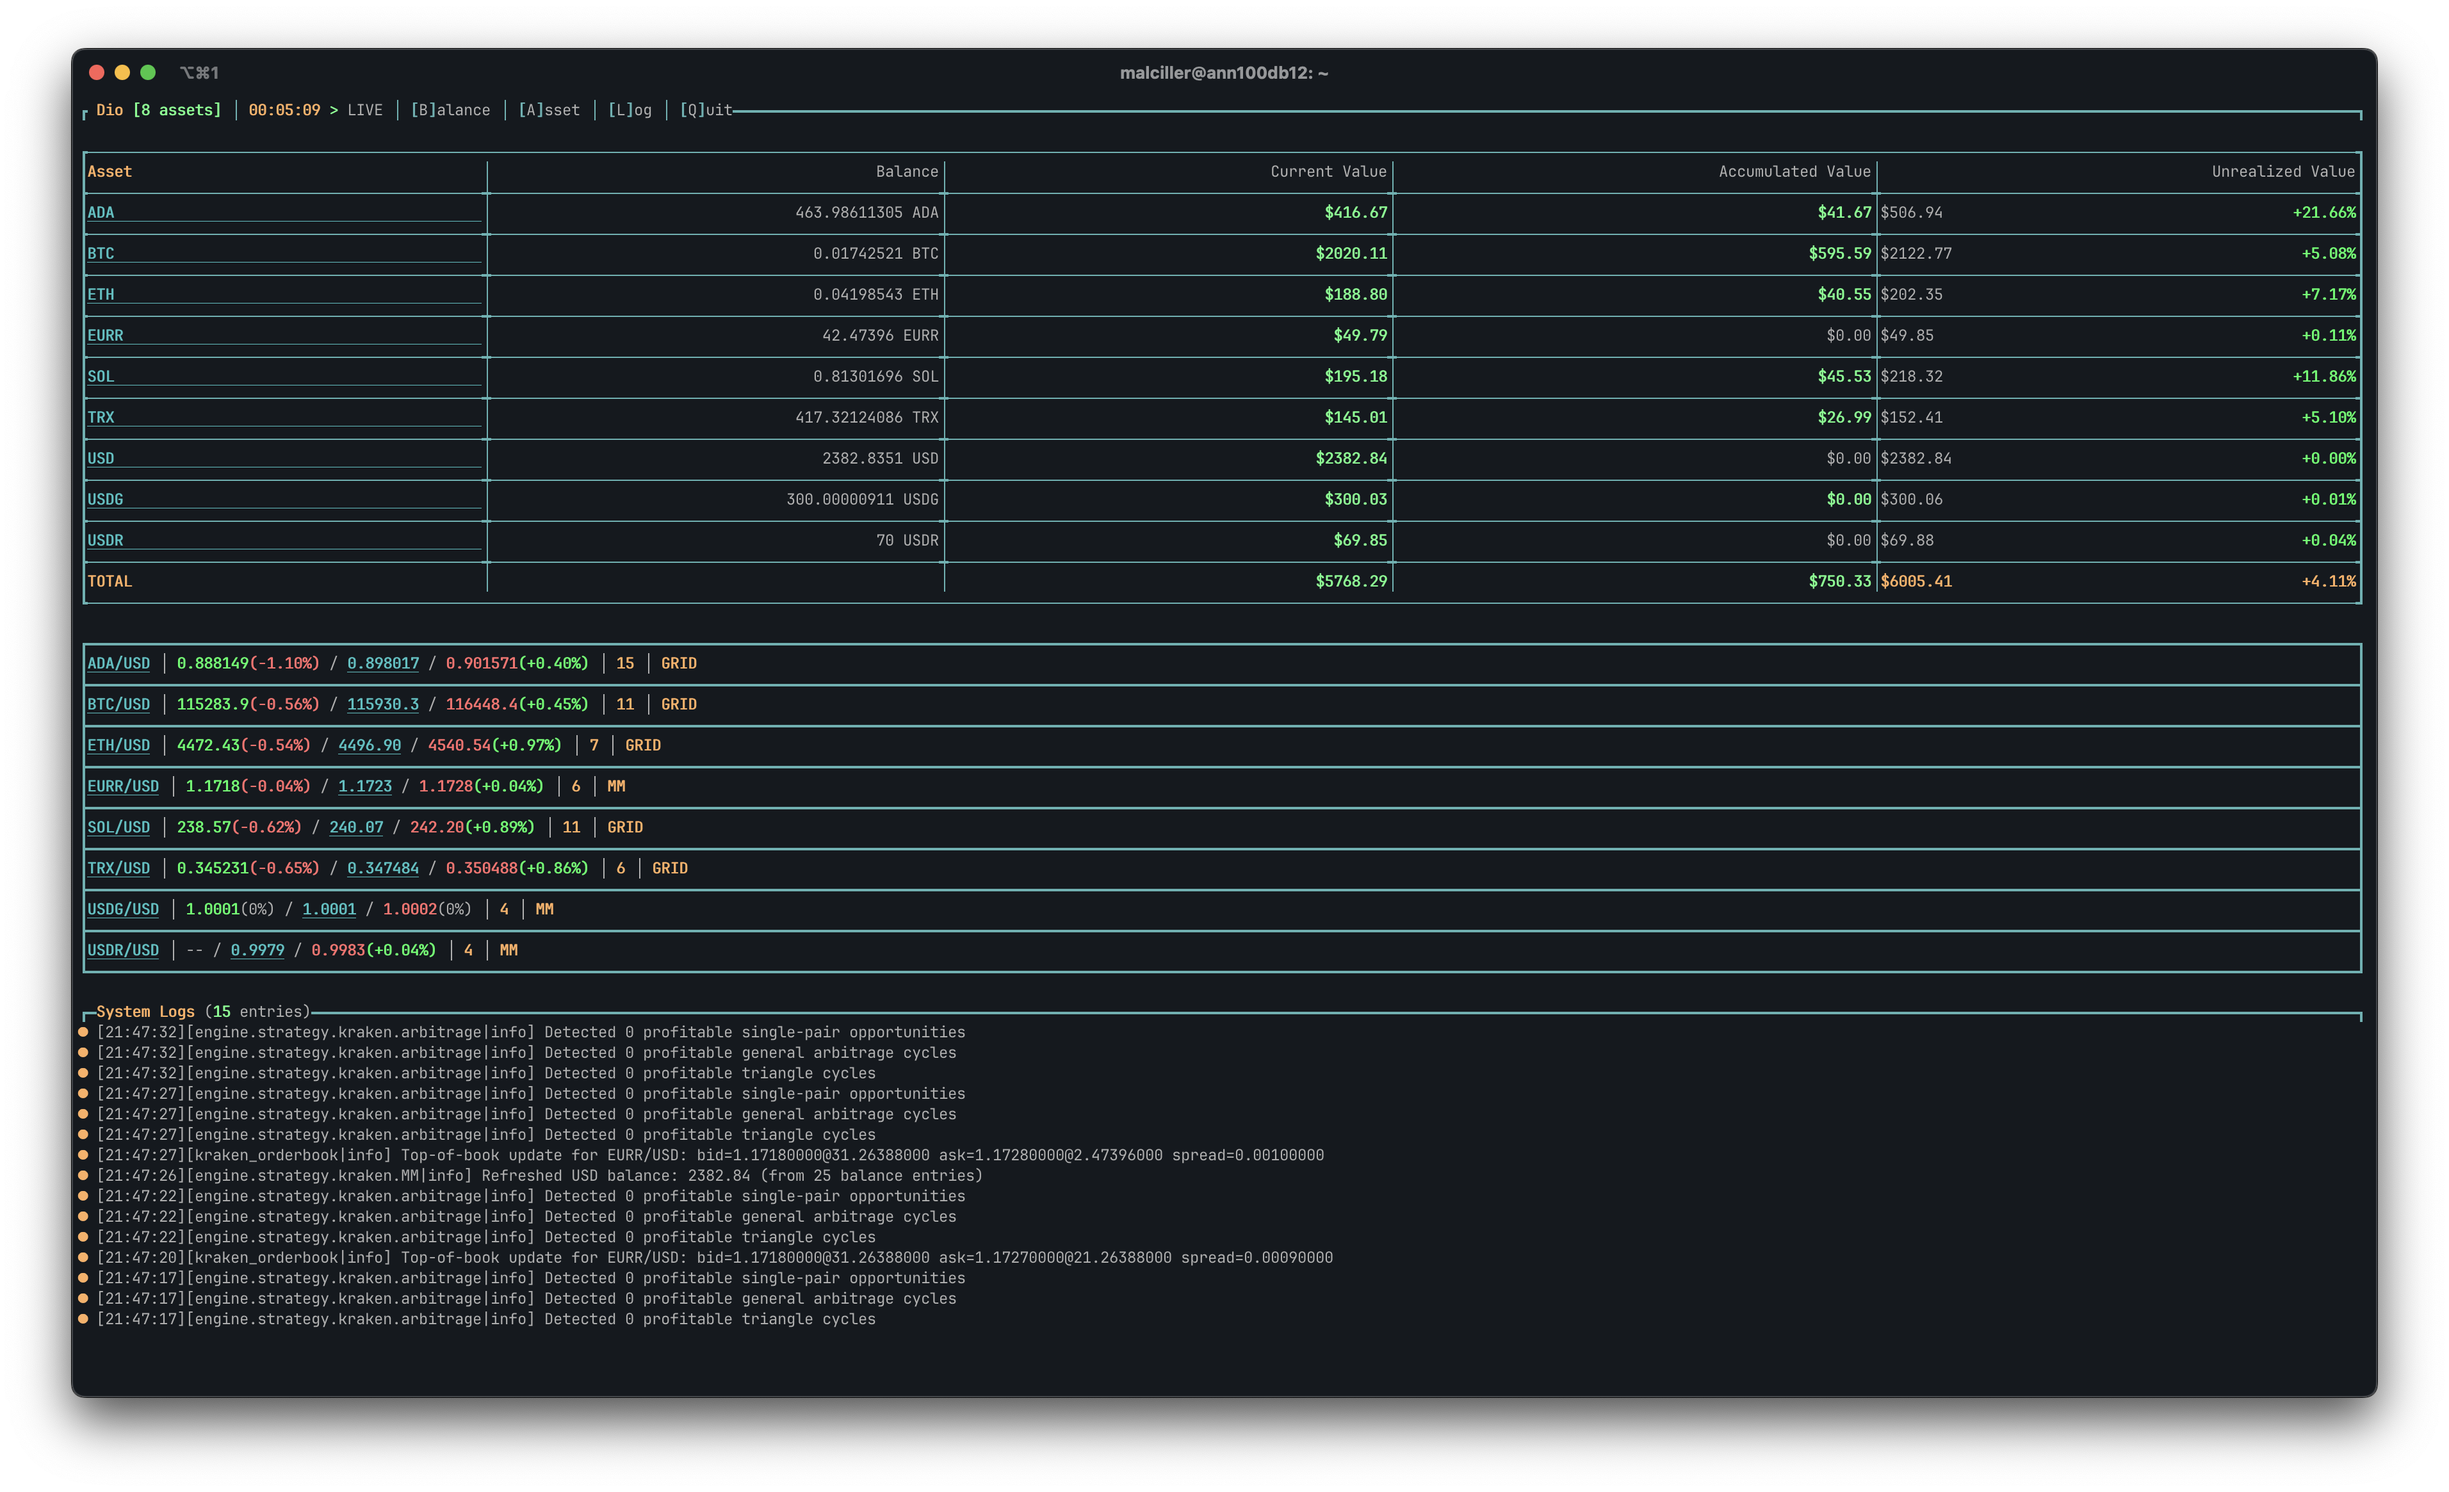
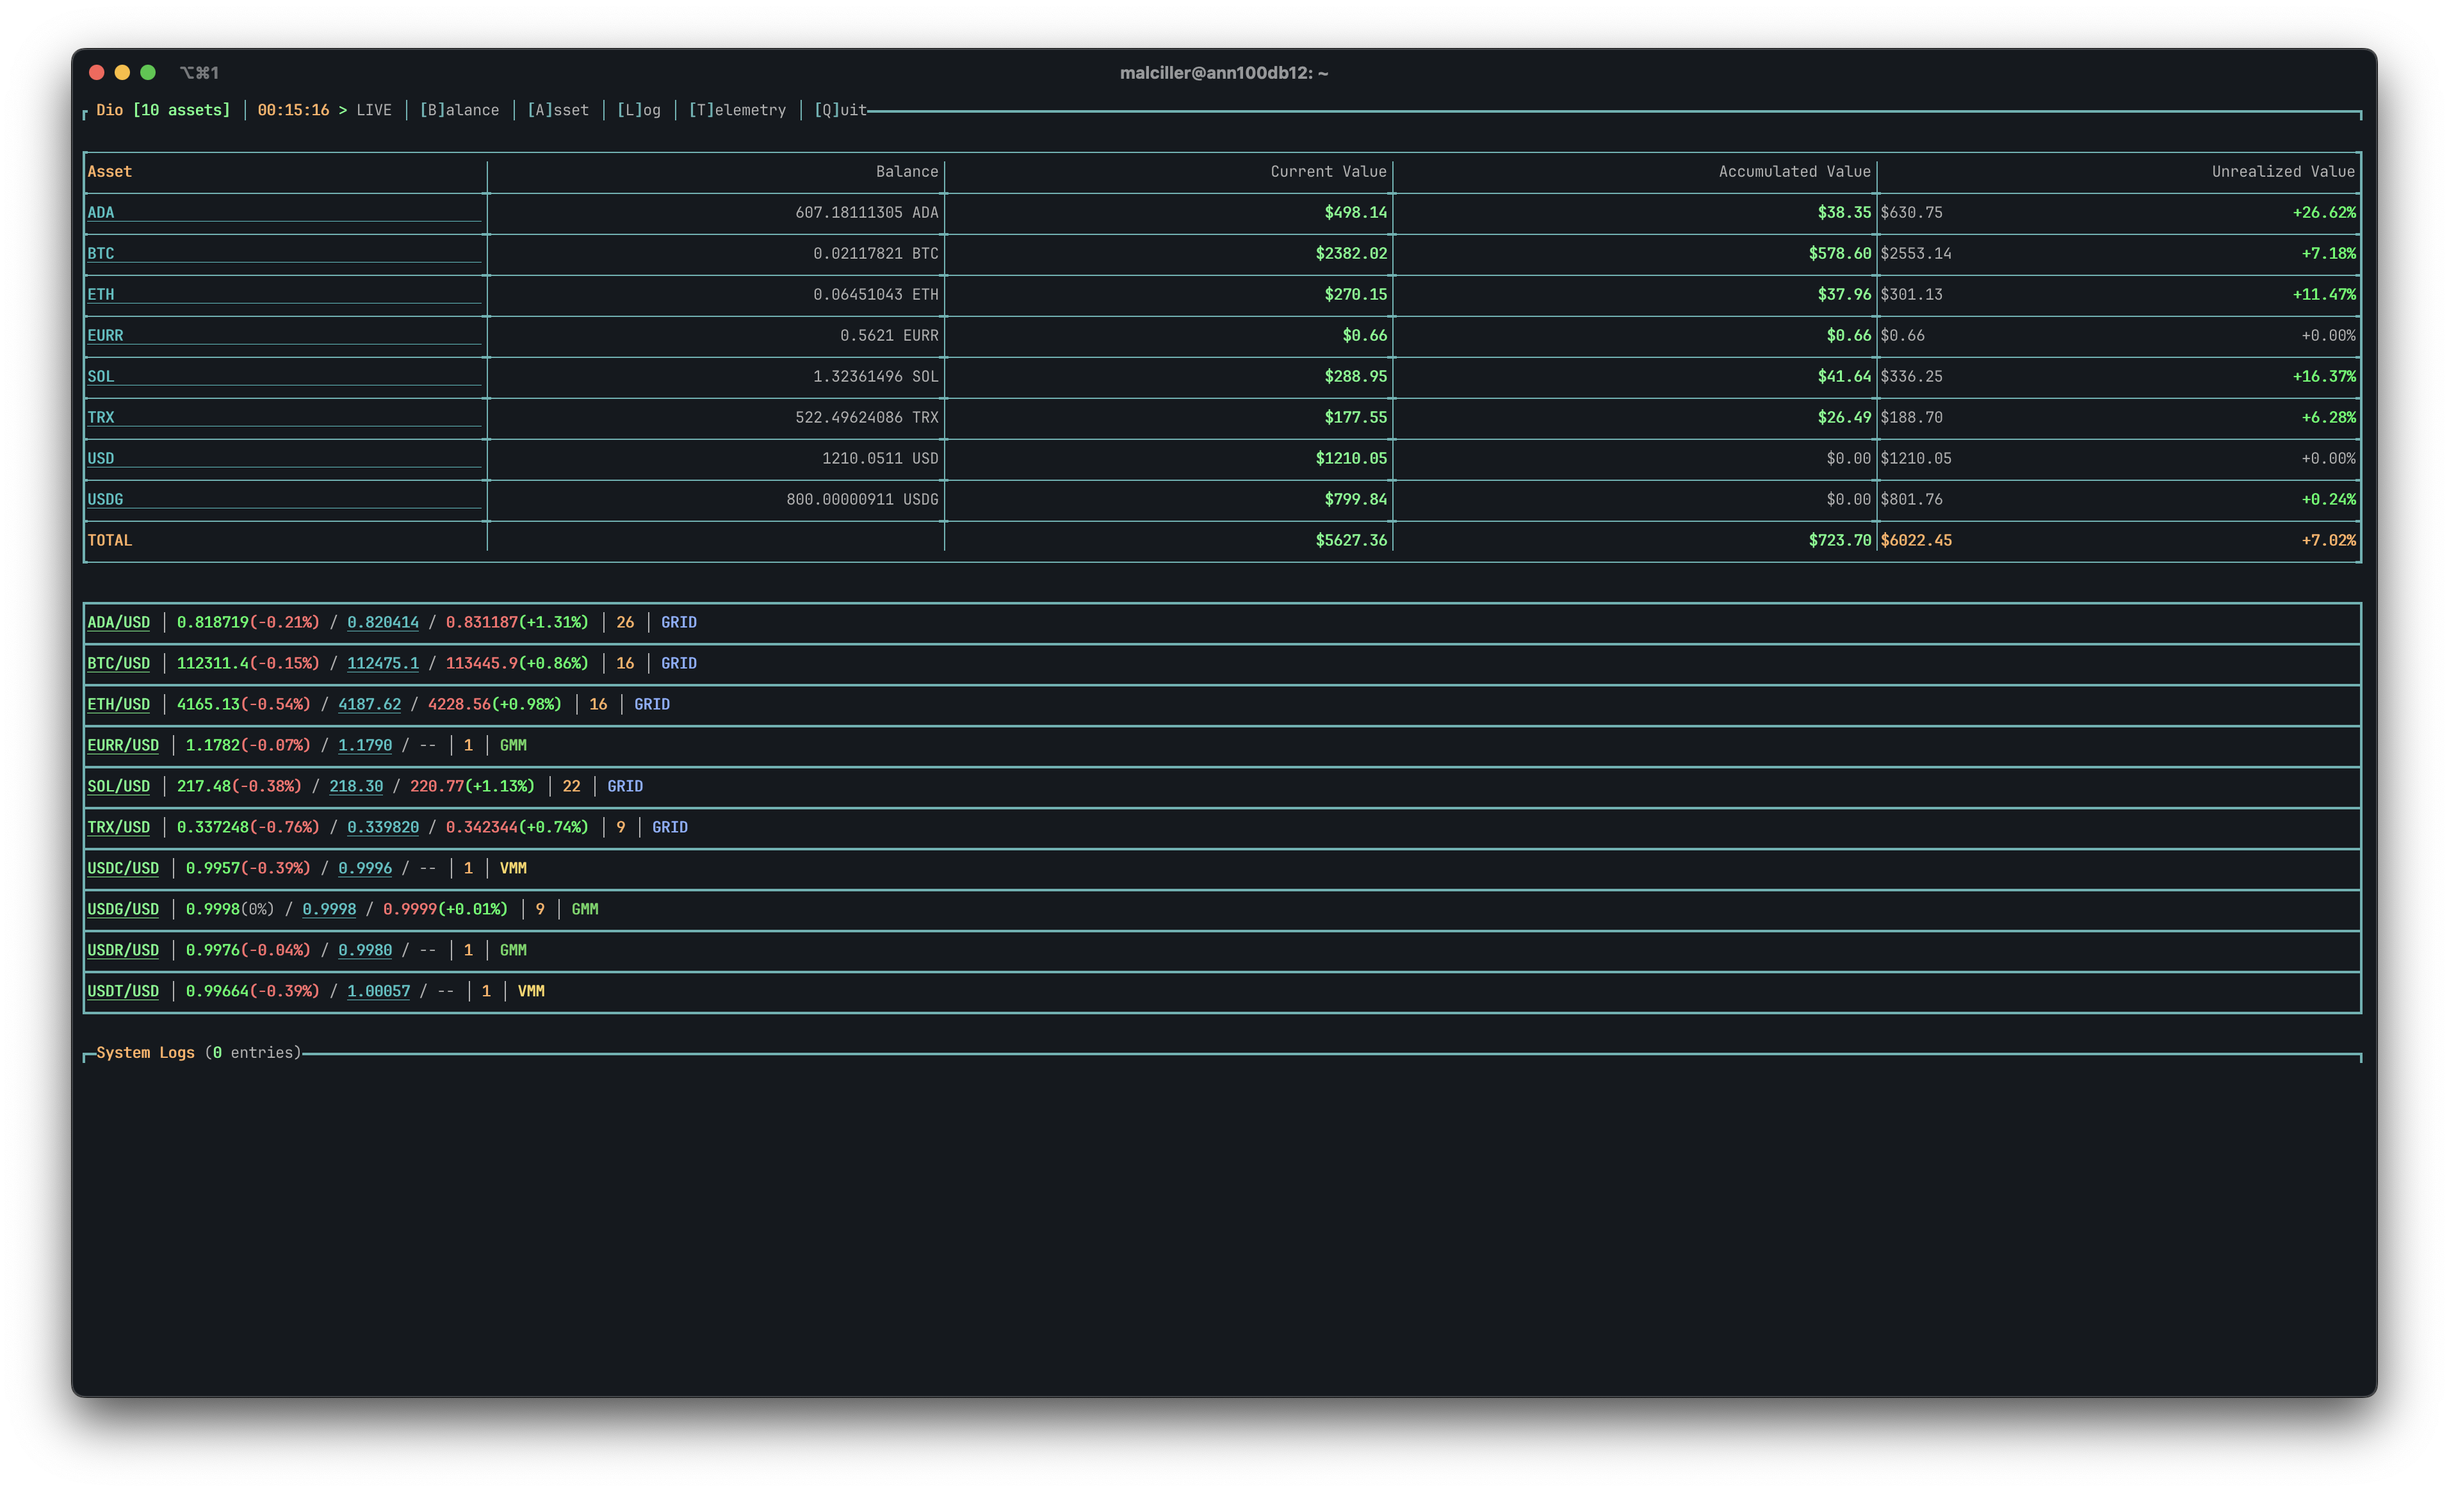
update readme

diff --git a/readme.md b/readme.md
@@ -88,6 +88,8 @@ Edit `_config.json` (example):
 #### Expanded Asset View
 ![Dio Dashboard](.github/readme/dashboard_expanded.png)
 
+#### Telemetry View
+![Dio Dashboard](.github/readme/dashboard_telemetry.png)
 ## Notification
 ### Balance Updates
 ![Balances](.github/readme/balances.png)
